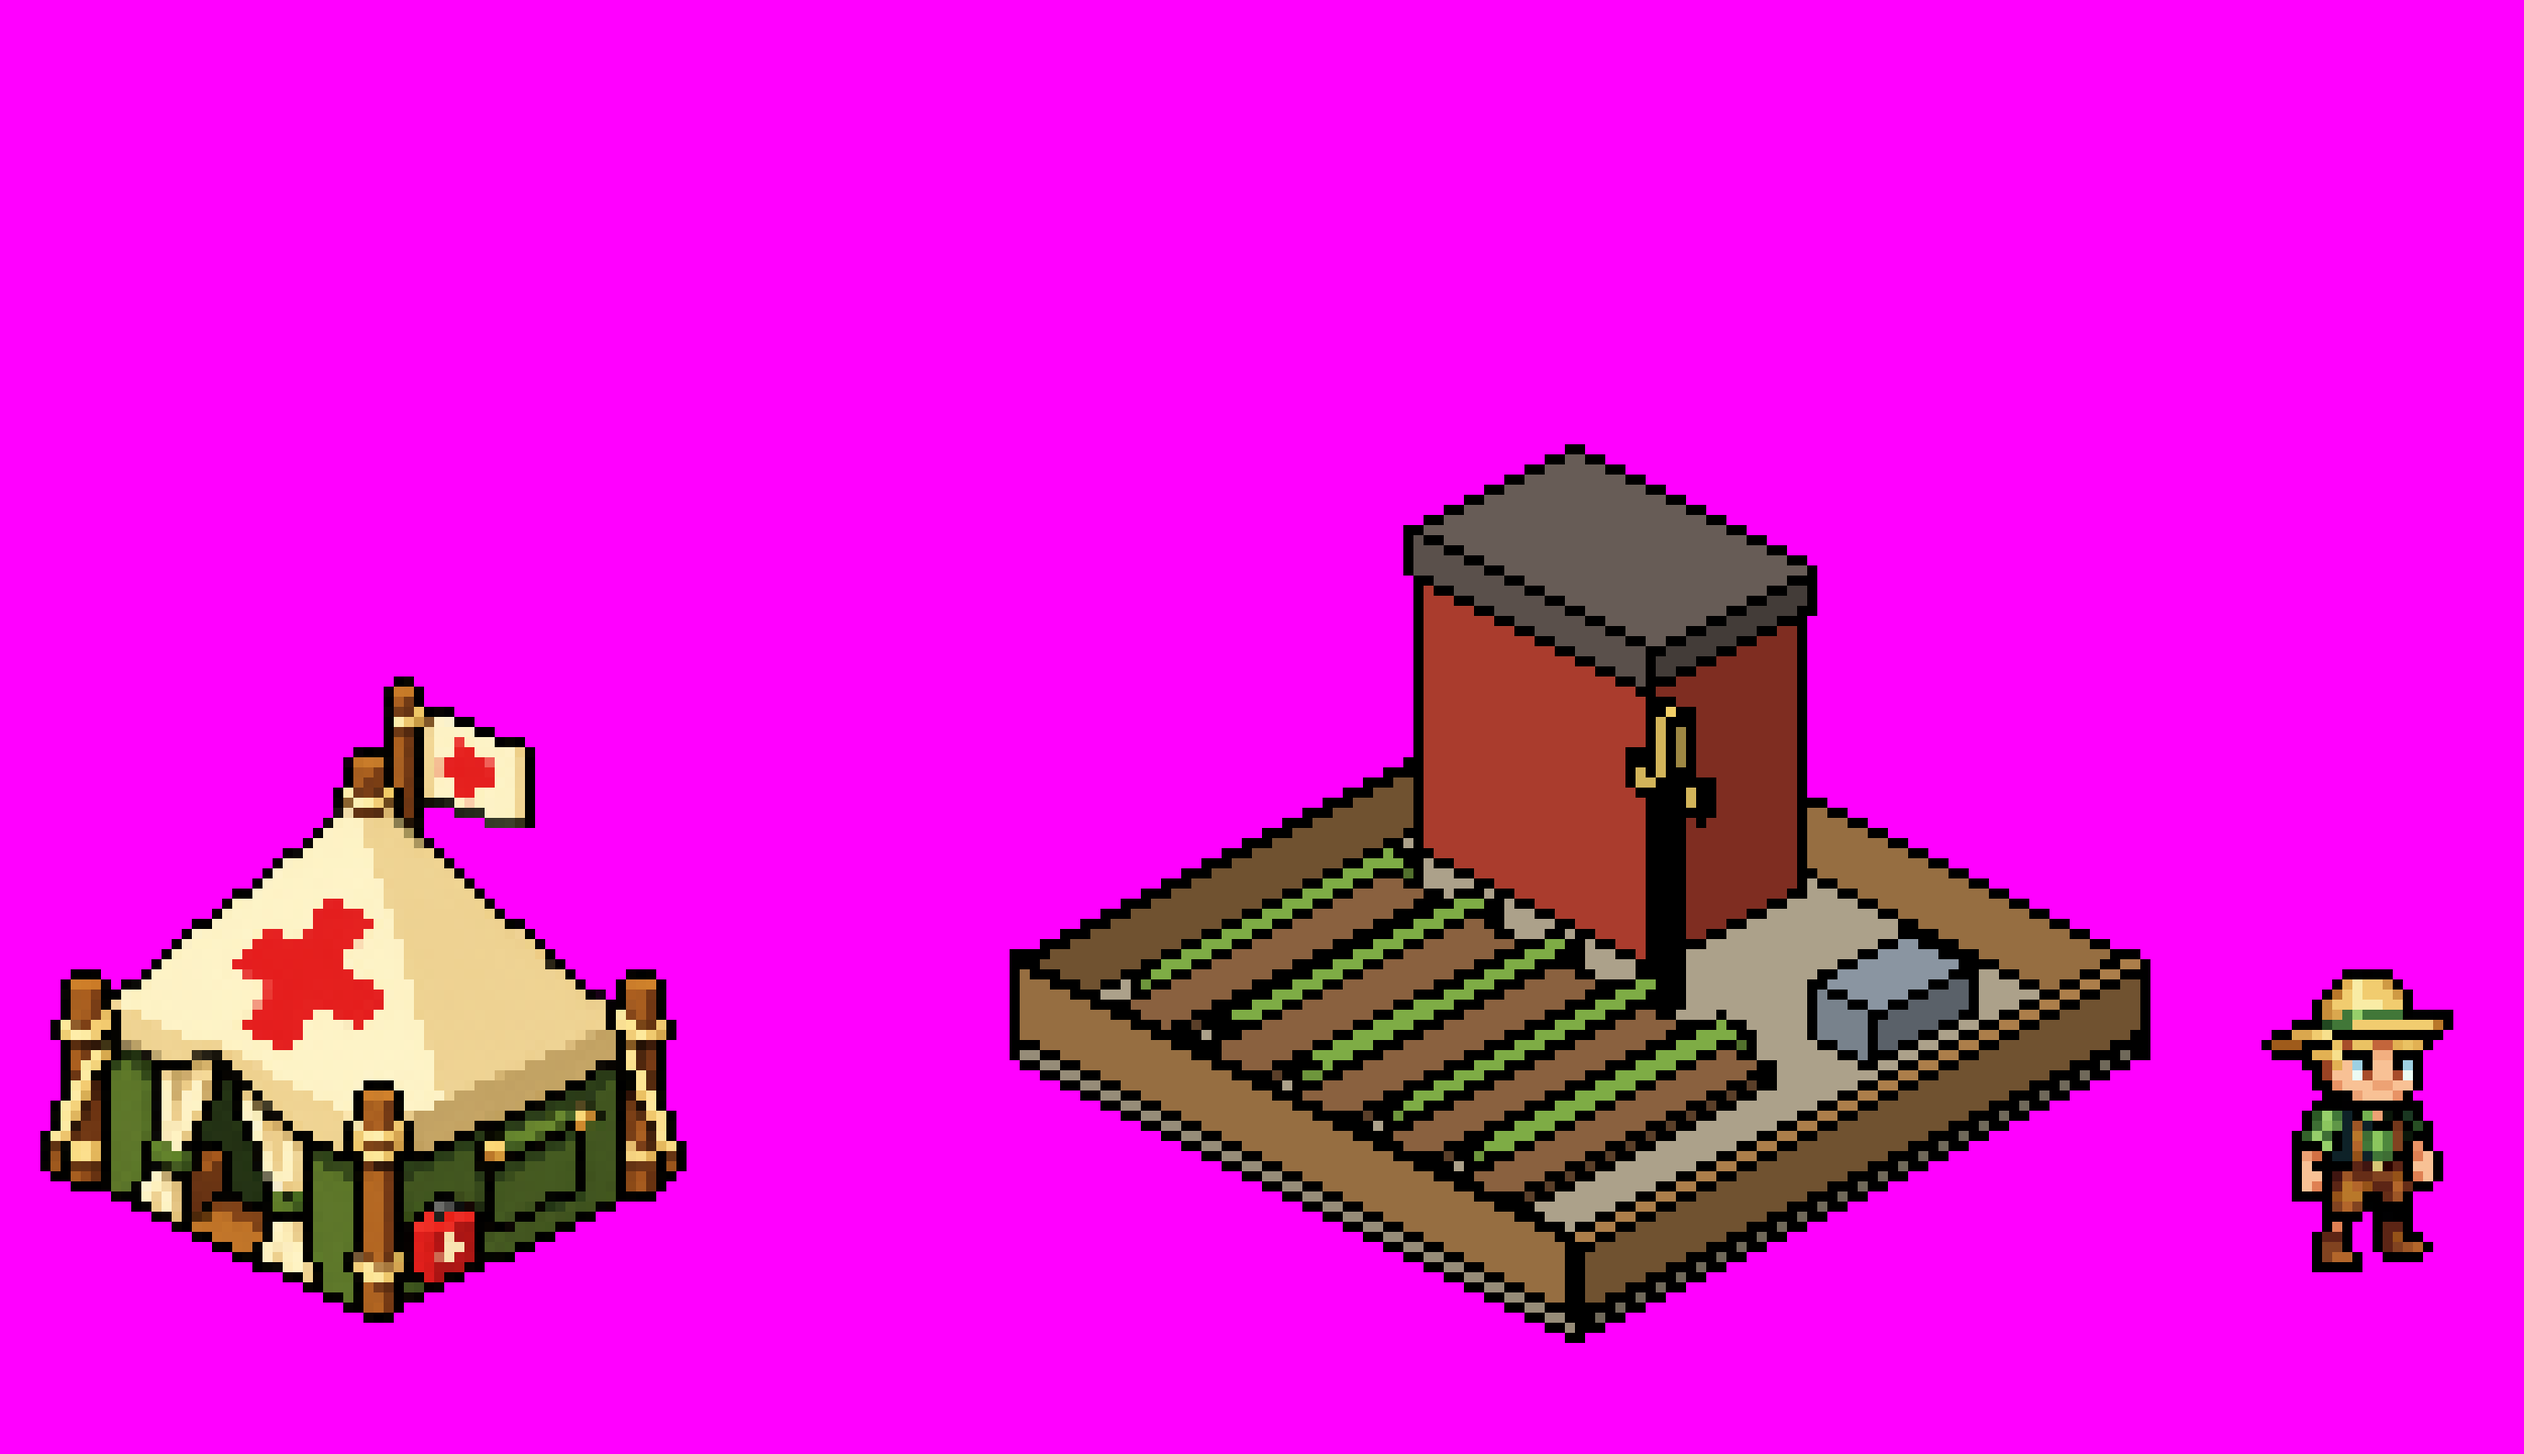
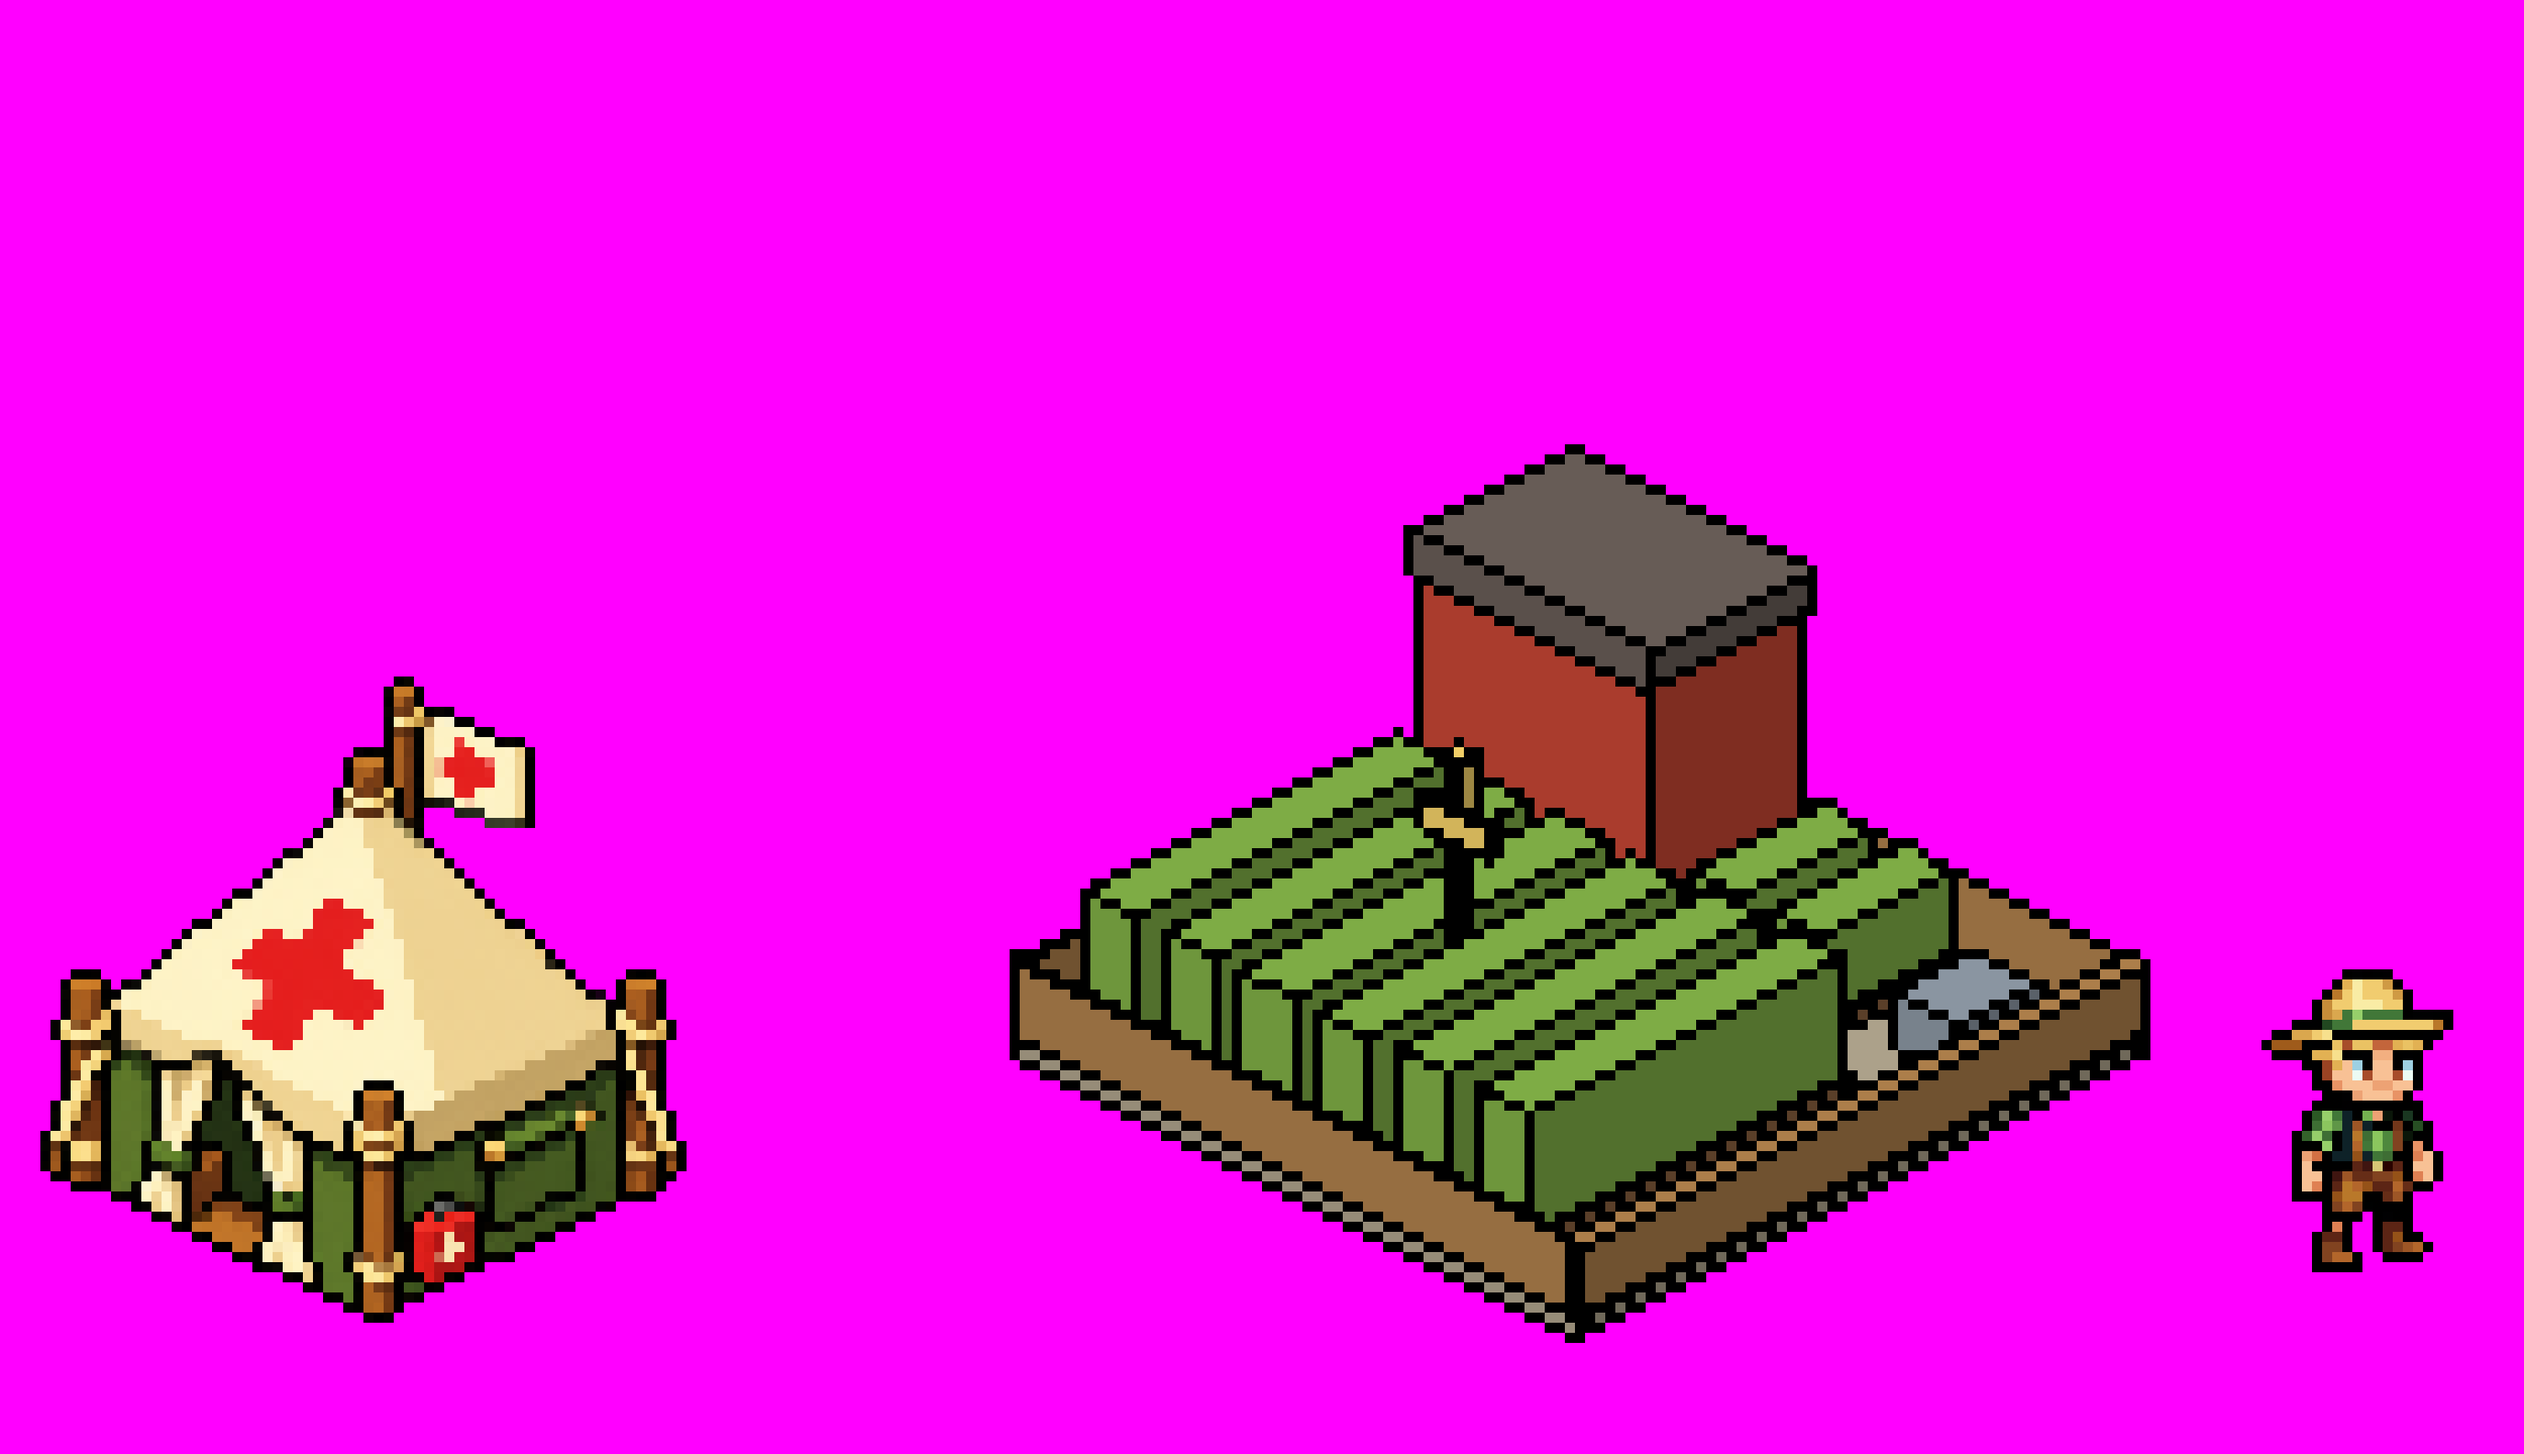
Farm model: field full of tall crops (6 long rows + 2 short), scarecrow in the middle
Claude-Session: https://claude.ai/code/session_014xWrqmw1tDuMEr3xW9Kw6Z

Changed region(s): [[0.403, 0.4688, 0.806, 0.8438]]

diff --git a/tools/art/model_field.py b/tools/art/model_field.py
@@ -9,12 +9,15 @@ DIRT, SOIL, CROP, FENCE, BARN, BROOF, TROUGH, STRAW = ((150, 140, 120), (120, 85
     (170, 60, 45), (90, 80, 75), (120, 130, 140), (210, 180, 90))
 t = .03
 OBJ = [(0, 2, 0, 2, 0, 2, DIRT)]
-OBJ += [(.15, 1.15, v, v + .16, 2, 4, SOIL) for v in (.2, .5, .8, 1.1, 1.4)]           # tilled rows
-OBJ += [(.2, 1.1, v + .03, v + .13, 4, 8, CROP) for v in (.2, .5, .8, 1.1, 1.4)]       # crops on them
+ROWS = (.12, .4, .68, .96, 1.24, 1.52)
+OBJ += [(.1, 1.25, v, v + .22, 2, 4, SOIL) for v in ROWS]                                # six tilled rows, full length
+OBJ += [(.12, 1.23, v + .02, v + .2, 4, 16, CROP) for v in ROWS]                        # tall, full crops on them
+OBJ += [(1.38, 1.9, v, v + .2, 2, 4, SOIL) for v in (1.0, 1.28)]                        # two short rows in front of the barn
+OBJ += [(1.4, 1.88, v + .02, v + .18, 4, 12, CROP) for v in (1.0, 1.28)]
 OBJ += [(1.35, 1.9, .1, .9, 2, 30, BARN), (1.33, 1.92, .08, .92, 30, 34, BROOF)]        # small barn, back corner
-OBJ += [(1.4, 1.75, 1.45, 1.65, 2, 7, TROUGH)]                                          # water trough
-OBJ += [(1.25, 1.29, 1.05, 1.09, 2, 30, FENCE), (1.25, 1.29, .95, 1.19, 22, 25, STRAW), # scarecrow: pole, arms
-        (1.24, 1.30, 1.04, 1.10, 25, 31, STRAW)]                                         # and head
+OBJ += [(1.5, 1.8, 1.62, 1.85, 2, 7, TROUGH)]                                           # water trough, front corner
+OBJ += [(.66, .7, .9, .94, 2, 32, FENCE), (.66, .7, .8, 1.04, 24, 27, STRAW),   # scarecrow in the middle of the crops: pole, arms
+        (.65, .71, .89, .95, 27, 33, STRAW)]                                         # and head
 OBJ += [(0, 2, 0, t, 2, 9, FENCE), (2 - t, 2, 0, 2, 2, 9, FENCE),                        # low fence all round
         (0, t, 0, 2, 2, 9, FENCE), (0, 2, 2 - t, 2, 2, 9, FENCE)]
 FAR = OBJ[-4:-2]; NEAR = OBJ[-2:]
